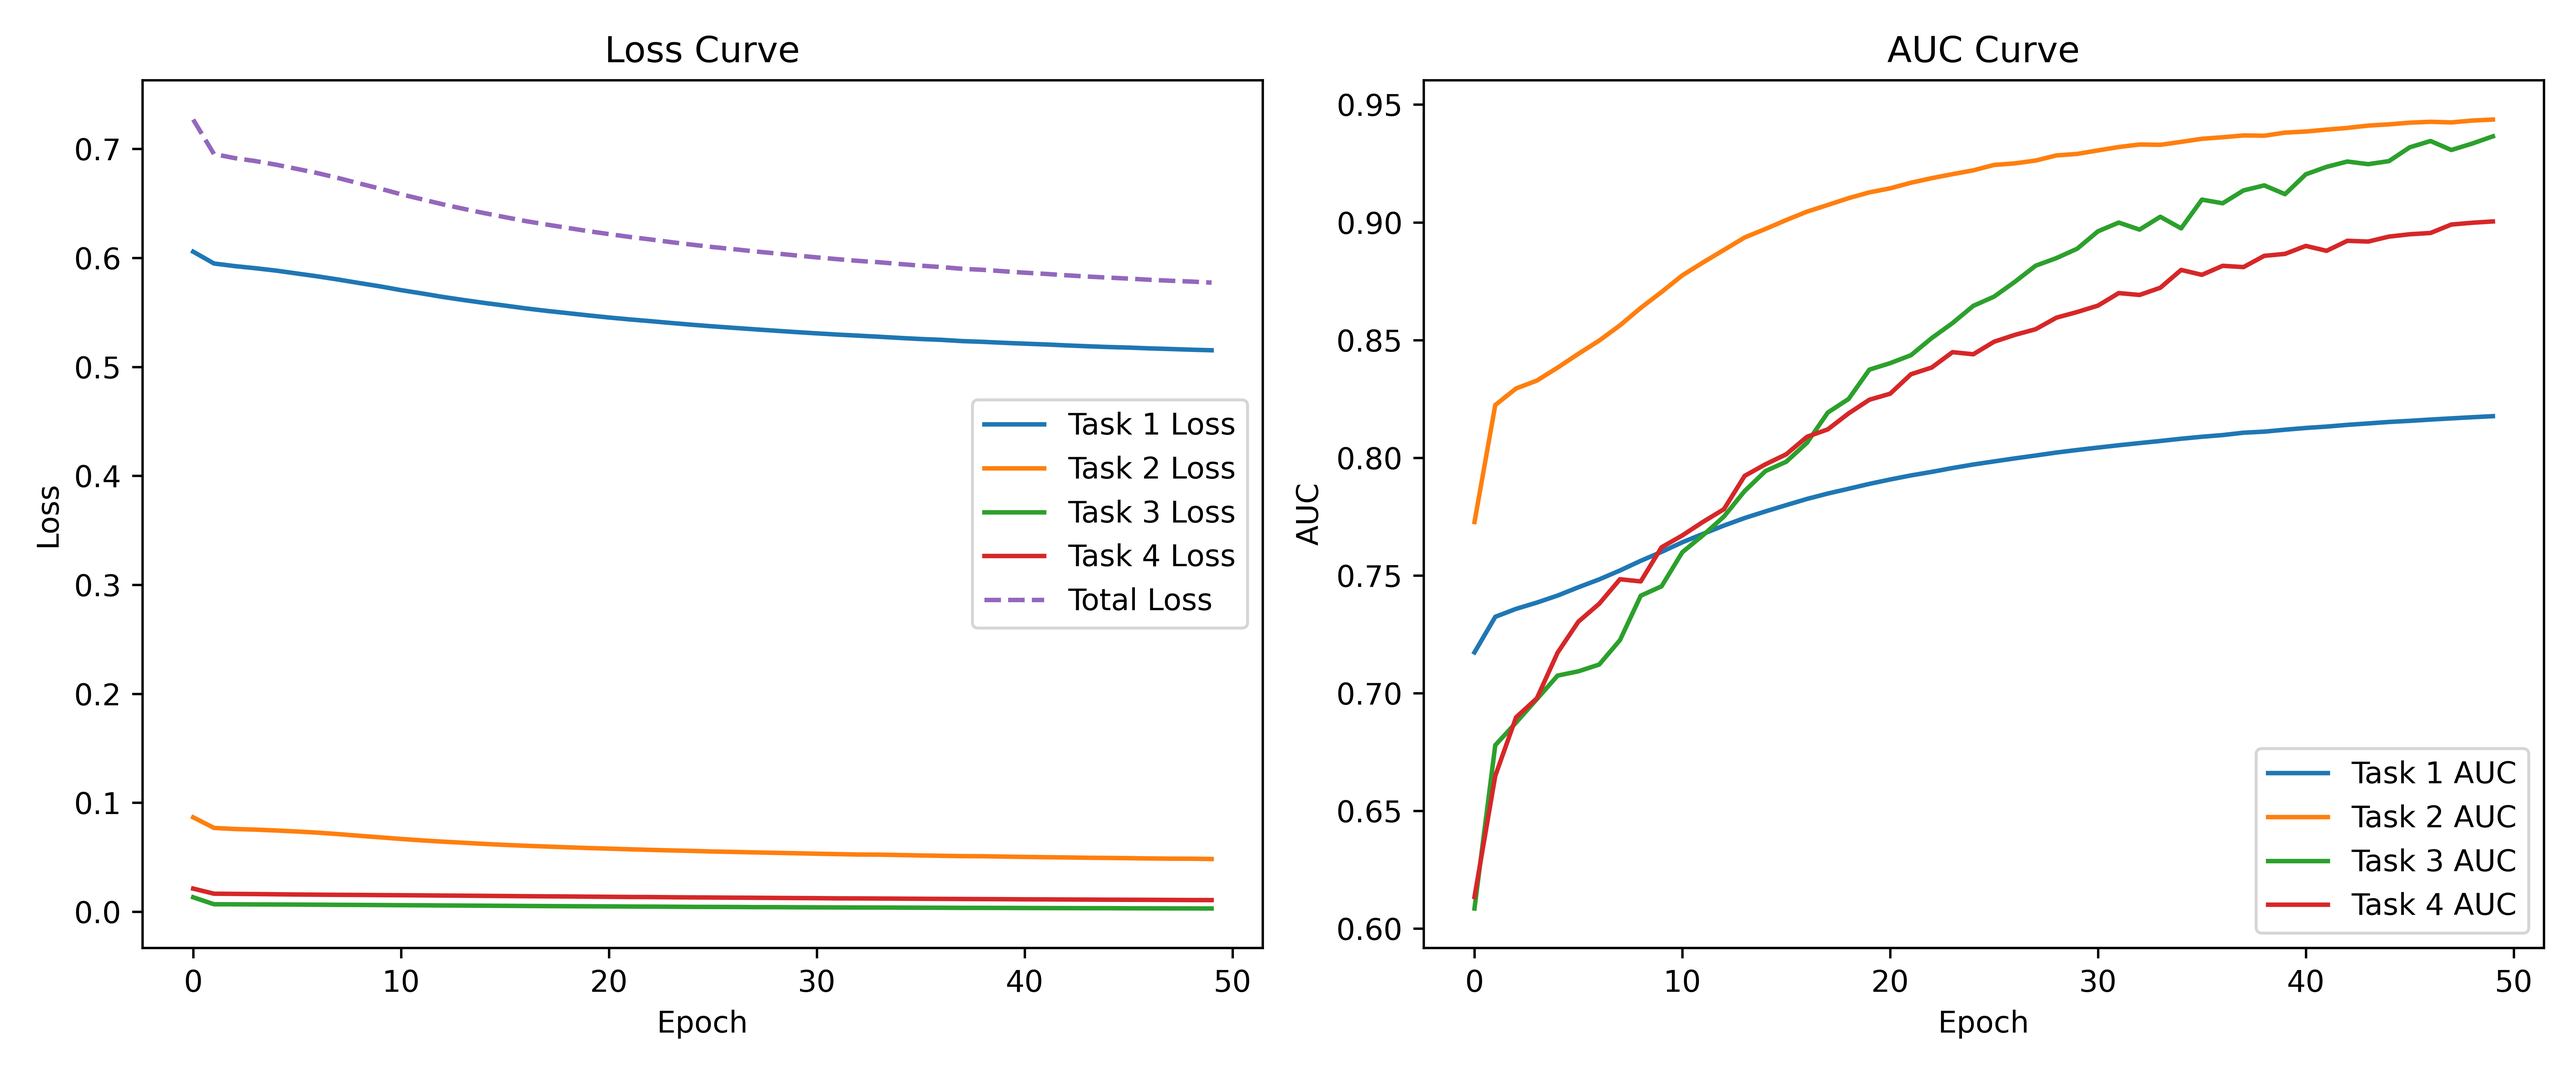
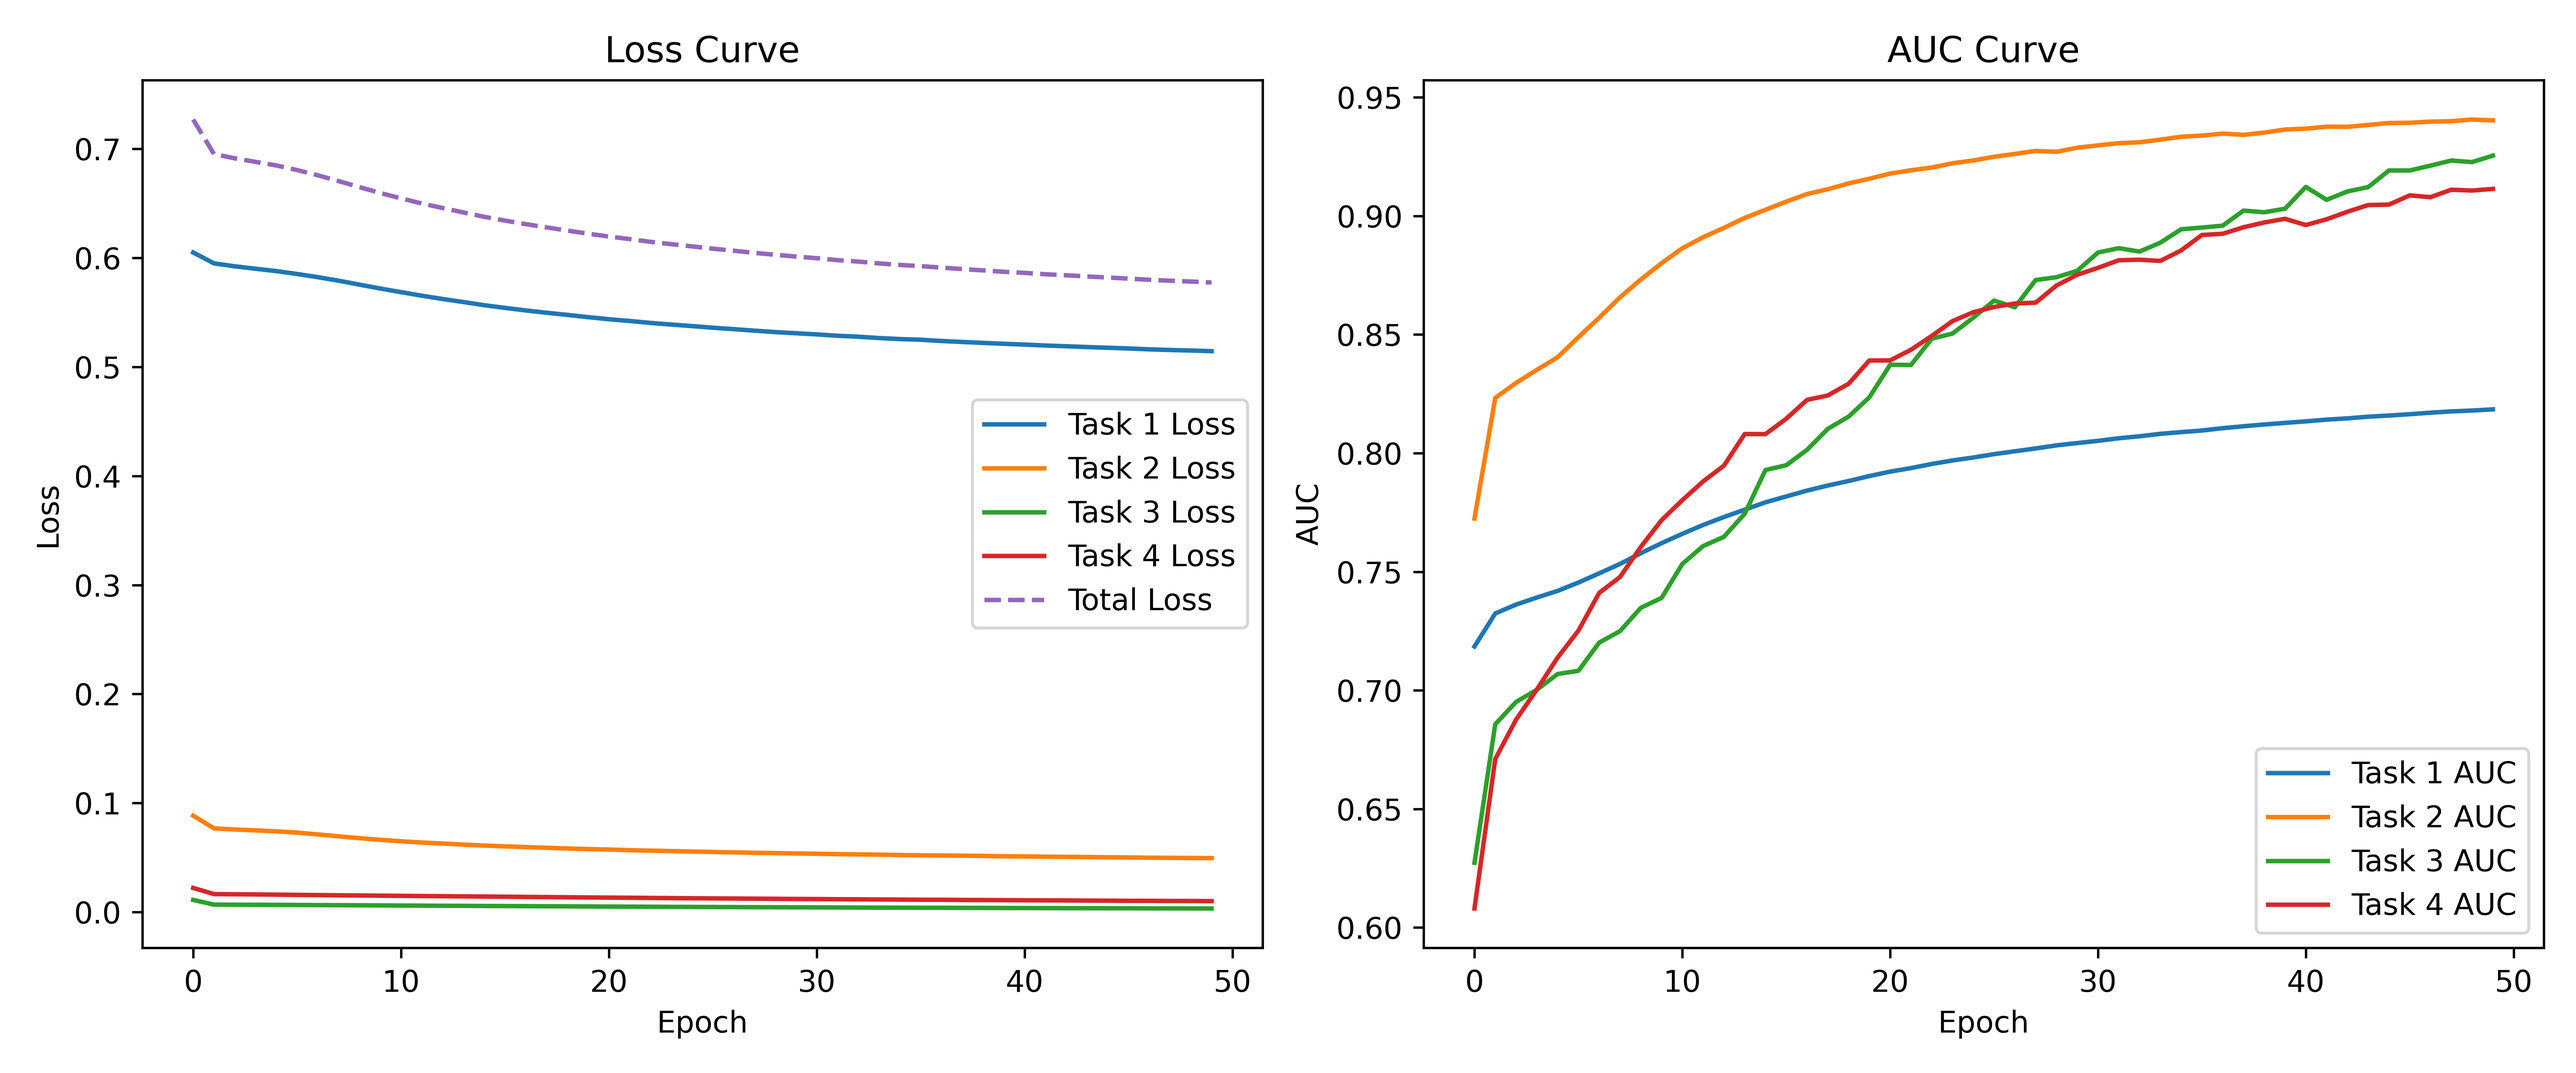
update MMoE

diff --git a/data_process.py b/data_process.py
@@ -1,7 +1,7 @@
 import pandas as pd
 from sklearn.preprocessing import LabelEncoder, StandardScaler
 import joblib
-
+import numpy as np
 # The "nrows=10000" argument reads the first 10000 lines of each file
 
 df_train = pd.read_csv("KuaiRand-Pure/data/log_standard_4_08_to_4_21_pure.csv")
@@ -21,6 +21,7 @@ df_merged = df_train.merge(user_features, on='user_id', how='left')
 # 合并视频特征（基本 + 统计）
 df_merged = df_merged.merge(video_features_basic, on='video_id', how='left')
 df_merged = df_merged.merge(video_features_statistics, on='video_id', how='left')
+df_merged['date'] = pd.to_datetime(df_merged['date'], format='%Y%m%d').dt.dayofweek
 
 # 查看合并结果
 print("Merged Data Shape:", df_merged.shape)
@@ -48,14 +49,31 @@ offset = 0
 
 # 对每列进行LabelEncoder，并加上全局偏移量形成feature_id
 for col in categorical_cols:
+    # 获取所有唯一值并添加'UNK'标记
+    unique_values = df_processed[col].astype(str).unique()
+    unique_values = np.append(unique_values, 'UNK')
+
     le = LabelEncoder()
-    df_processed[col] = le.fit_transform(df_processed[col].astype(str)) + offset
+    le.fit(unique_values)
+
+    # 转换数据，将'UNK'标记映射为最高编码值
+    df_processed[col] = le.transform(df_processed[col].astype(str)) + offset
+    
+    # 保存编码器
     label_encoders[col] = le
     # 保存偏移量
     feature_offsets[col] = offset
-    # 更新偏移量
-    offset += df_processed[col].nunique()
+    # 更新偏移量（+1是为了预留'UNK'的位置）
+    offset += len(le.classes_)
 
+"""
+# 对新数据进行编码
+for col in categorical_cols:
+    # 先将新数据中不存在的标签替换为'UNK'
+    new_data[col] = new_data[col].astype(str).apply(lambda x: x if x in label_encoders[col].classes_ else 'UNK')
+    # 然后进行转换
+    new_data[col] = label_encoders[col].transform(new_data[col]) + feature_offsets[col]
+"""
 # 3. 数值标准化
 numeric_cols = [
     'follow_user_num', 'fans_user_num', 'friend_user_num', 'register_days',
@@ -100,15 +118,3 @@ y.to_parquet("KuaiRand-Pure/data_processed/processed_y.parquet")
 joblib.dump(label_encoders, "KuaiRand-Pure/data_processed/label_encoders.pkl")
 joblib.dump(scaler, "KuaiRand-Pure/data_processed/scaler.pkl")
 joblib.dump(feature_offsets, "KuaiRand-Pure/data_processed/feature_offsets.pkl")  # 可选：用于后续Embedding映射
-
-"""加载
-import pandas as pd
-import joblib
-
-X = pd.read_parquet("processed_X.parquet")
-y = pd.read_parquet("processed_y.parquet")
-
-label_encoders = joblib.load("label_encoders.pkl")
-scaler = joblib.load("scaler.pkl")
-feature_offsets = joblib.load("feature_offsets.pkl")
-"""
